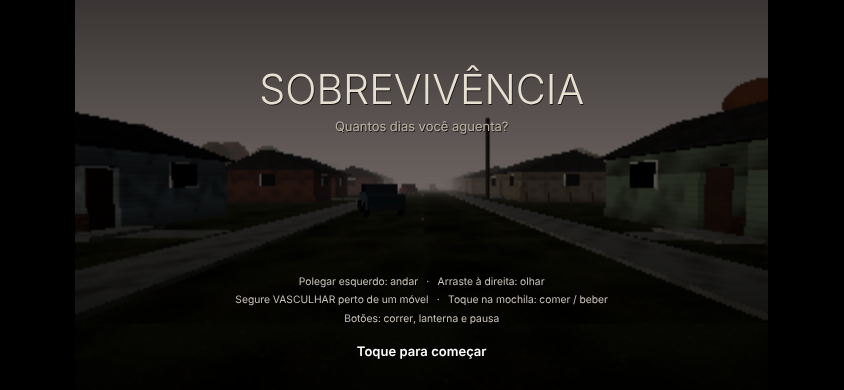
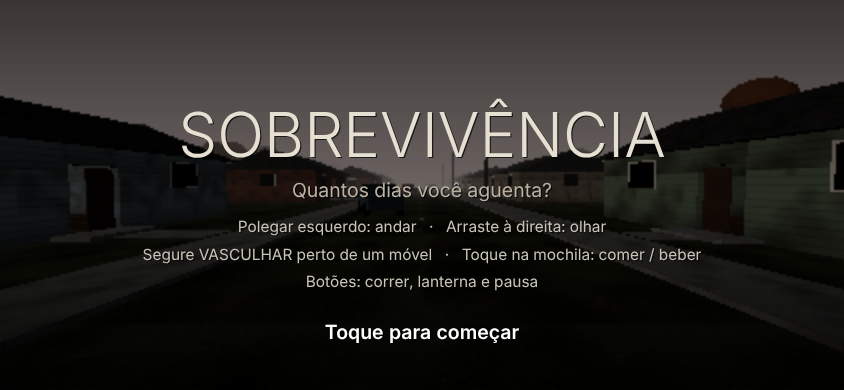
feat: tela cheia e HUD maior no celular no spike de sobrevivência
No celular o jogo ocupa a tela inteira (sem faixas pretas) com textos,
barras e botões maiores; no computador continua 16:9.

Story: SPIKE sobrevivencia-spike-2026-11-20

Claude-Session: https://claude.ai/code/session_013o8aek17KGRmKMrjDa2EVT

diff --git a/prototypes/sobrevivencia-spike-2026-11-20/index.html b/prototypes/sobrevivencia-spike-2026-11-20/index.html
@@ -33,7 +33,7 @@ const TOUCH = params.get('touch') === '1' || (params.get('touch') !== '0' &&
   ((window.matchMedia && matchMedia('(pointer: coarse)').matches) || 'ontouchstart' in window));
 const tune = new Proxy({}, { get: (_, k) => CONFIG[k].value }); // live: tune.speed is CONFIG.speed.value
 const STEP = 1 / 60;
-const W = 1280, H = 720;
+let W = 1280, H = 720; // a computer keeps 16:9; a phone fills its screen at a 480-high logical size (fit)
 const PIXEL = false;
 const FONT = '"Segoe UI", "Helvetica Neue", Arial, sans-serif';
 const TITLE = 'SOBREVIVÊNCIA';
@@ -79,6 +79,11 @@ renderer.shadowMap.type = THREE.PCFShadowMap;
 renderer.toneMapping = THREE.ACESFilmicToneMapping;
 renderer.outputColorSpace = THREE.SRGBColorSpace;
 function fit() {
+  if (TOUCH) { // fill the phone: a smaller logical height makes the HUD and text bigger on screen
+    H = 480; W = Math.max(640, Math.round(H * innerWidth / Math.max(1, innerHeight)));
+    if (fit.cam) layoutButtons(); // the buttons exist once the world is built
+  }
+  if (fit.cam) { fit.cam.aspect = W / H; fit.cam.updateProjectionMatrix(); }
   const s = Math.min(innerWidth / W, innerHeight / H);
   const r = s * (devicePixelRatio || 1);
   const cw = Math.round(W * s), ch = Math.round(H * s);
@@ -129,12 +134,14 @@ document.addEventListener('pointerlockchange', () => {
 // Left side: a joystick that appears where the thumb lands. Right side: drag to look.
 // Buttons: search (hold), run (toggle), flashlight, pause. A tap on a backpack slot uses it.
 const touch = { joy: null, look: null, run: false, btn: new Map(), joyX: 0, joyY: 0 };
-const BTN = {
-  search: { x: W - 130, y: H - 175, r: 66, label: 'VASCULHAR' },
-  run: { x: W - 275, y: H - 92, r: 46, label: 'CORRER' },
-  flash: { x: W - 92, y: H - 345, r: 42, label: 'LANTERNA' },
-  pause: { x: W - 48, y: 48, r: 30, label: '' },
-};
+const BTN = {};
+function layoutButtons() { // the right thumb's column, kept clear of the backpack
+  BTN.search = { x: W - 118, y: H - 140, r: 62, label: 'VASCULHAR' };
+  BTN.run = { x: W - 255, y: H - 215, r: 44, label: 'CORRER' };
+  BTN.flash = { x: W - 80, y: H - 295, r: 40, label: 'LANTERNA' };
+  BTN.pause = { x: W - 44, y: 44, r: 28, label: '' };
+}
+layoutButtons();
 function toLogical(e) {
   const r = canvas.getBoundingClientRect();
   return { x: (e.clientX - r.left) / r.width * W, y: (e.clientY - r.top) / r.height * H };
@@ -205,7 +212,7 @@ addEventListener('contextmenu', e => { if (TOUCH) e.preventDefault(); });
 function drawTouch() {
   ctx.save();
   // joystick: where the thumb is, or a ghost where it usually goes
-  const j = touch.joy || { ox: 190, oy: H - 200, x: 190, y: H - 200 };
+  const j = touch.joy || { ox: 150, oy: H - 150, x: 150, y: H - 150 };
   ctx.globalAlpha = touch.joy ? 0.9 : 0.4;
   ctx.fillStyle = 'rgba(20,20,18,0.35)'; ctx.strokeStyle = 'rgba(230,225,210,0.5)'; ctx.lineWidth = 2;
   ctx.beginPath(); ctx.arc(j.ox, j.oy, 70, 0, Math.PI * 2); ctx.fill(); ctx.stroke();
@@ -310,6 +317,7 @@ function need(k, v) { state[k] = Math.max(0, Math.min(100, state[k] + v)); }
 const world = new THREE.Scene();
 const camera = new THREE.PerspectiveCamera(72, W / H, 0.05, 300);
 camera.rotation.order = 'YXZ';
+fit.cam = camera; fit();
 world.add(camera);
 world.fog = new THREE.Fog(0x9aa0a4, 20, 150);
 const hemi = new THREE.HemisphereLight(0xc4cad0, 0x3b3a30, 0.8); world.add(hemi);
@@ -904,7 +912,7 @@ function drawHud(day) {
   shadowText(clockStr(), 28, 34, 22, '#e8e2d4', 'left', '600');
   shadowText(day < 0.3 ? (s.flash ? 'Noite  ·  lanterna ligada' : TOUCH ? 'Noite  ·  ligue a LANTERNA' : 'Noite  ·  F liga a lanterna') : '', 28, 62, 15, '#b8b2a4', 'left');
   // needs
-  const by = TOUCH ? 84 : H - 124; // on a phone the joystick takes the bottom-left
+  const by = TOUCH ? 70 : H - 124; // on a phone the joystick takes the bottom-left
   ctx.fillStyle = 'rgba(10,10,10,0.45)'; ctx.fillRect(16, by, 290, 108);
   bar(28, by + 12, 'Saúde', s.health, s.sick > 0 ? '#8a9a3a' : '#b0413a', s.health < 30);
   bar(28, by + 42, 'Fome', s.hunger, '#c08a3a', s.hunger < 20);
@@ -964,6 +972,8 @@ window.game = {
   hold(code, on) { on ? down.add(code) : down.delete(code); },
   get events() { return events; },
   houses, containers,
+  get size() { return [W, H]; },
+  get buttons() { return BTN; },
   step(n = 1, draw = true, alpha = 1) {
     for (let i = 0; i < n; i++) step();
     if (draw) { ALPHA = alpha; drawFrame(); }
